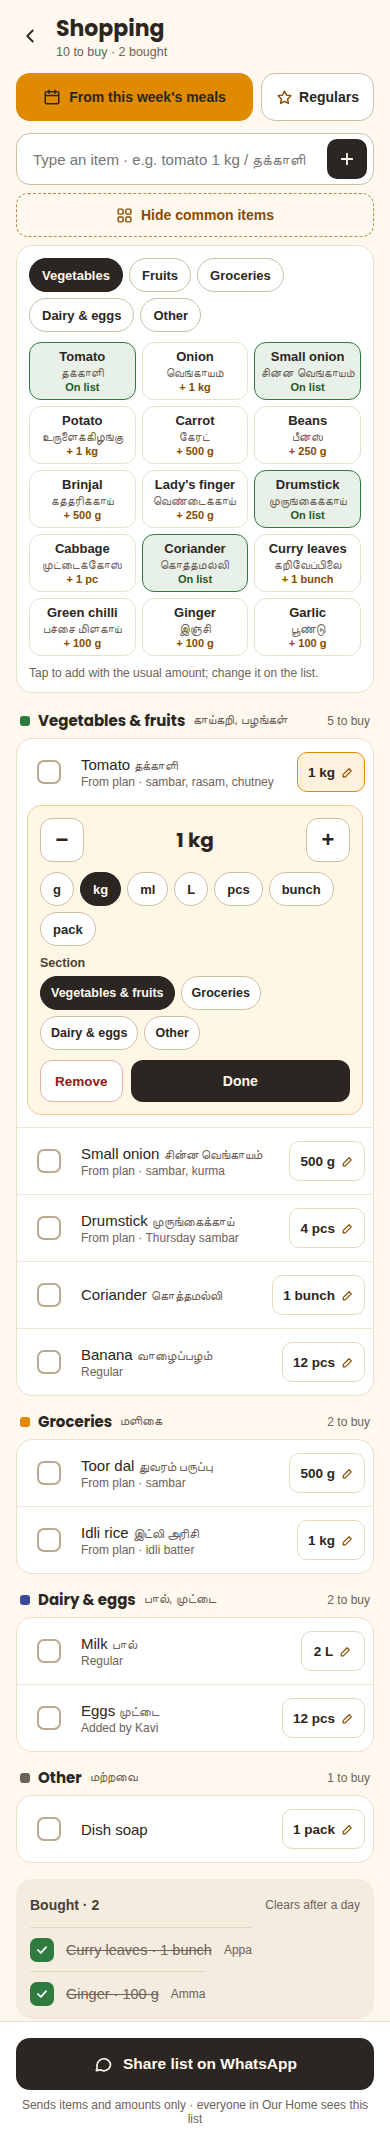
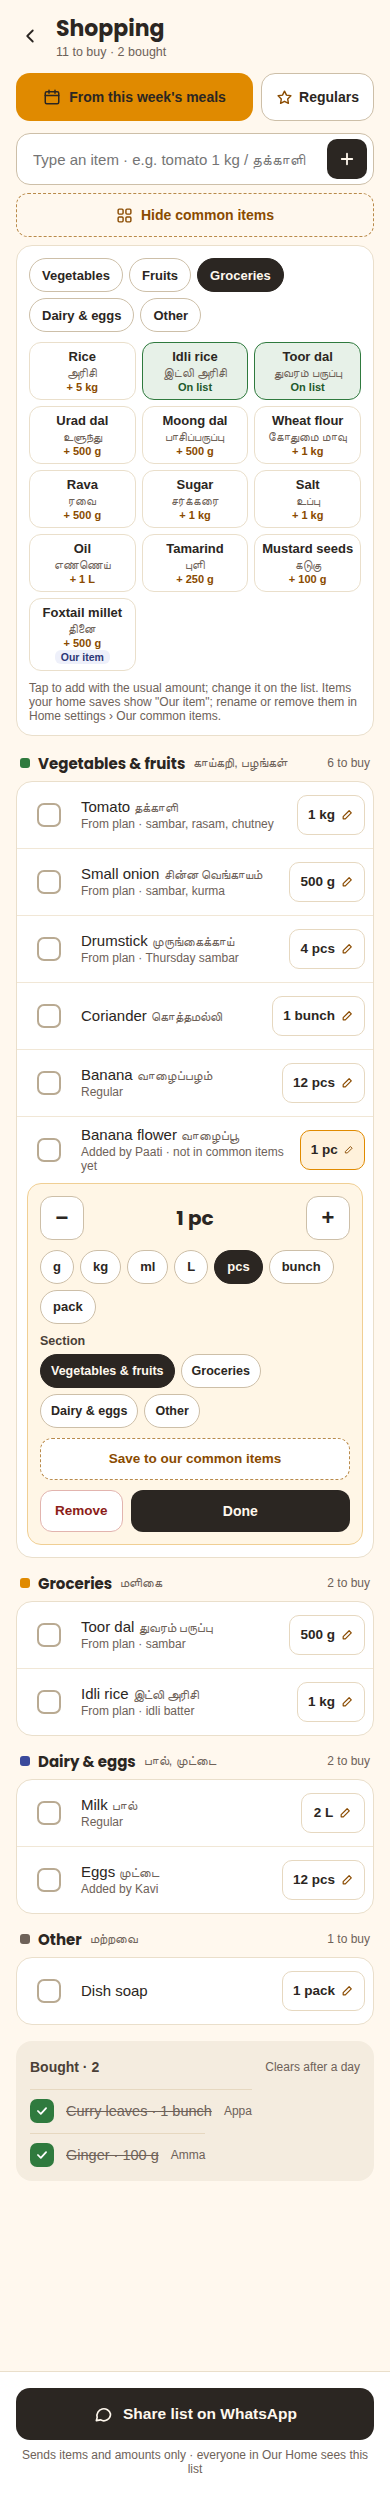
Shopping mockup: add a new item and save it to the home's common items
Claude-Session: https://claude.ai/code/session_019tXdhghyv9RUVi6FLQ9nxK

diff --git a/design/mockups/html/Shopping.dc.html b/design/mockups/html/Shopping.dc.html
@@ -15,7 +15,7 @@ a{color:#8A4B00}a:hover{color:#5E3300}
 button,input{font-family:inherit}
 </style>
 </helmet>
-<div style="width: 390px; height: 2150px; box-sizing: border-box; background: #FFF8EE; color: #2B2622; display: flex; flex-direction: column">
+<div style="width: 390px; height: 2500px; box-sizing: border-box; background: #FFF8EE; color: #2B2622; display: flex; flex-direction: column">
 
 <div style="display: flex; align-items: center; gap: 4px; padding: 12px 12px 6px 8px">
 <a href="Planner.dc.html" aria-label="Back to Week" style="width: 44px; height: 44px; display: flex; align-items: center; justify-content: center; color: #2B2622; border-radius: 12px">
@@ -51,7 +51,60 @@ button,input{font-family:inherit}
 <span style="font-size: 12.5px; color: #6E6259">{{sg.groupName}} · {{sg.qty}}</span>
 </button>
 </sc-for>
+<sc-if value="{{showNewOpt}}" hint-placeholder-val="{{ false }}">
+<button type="button" role="option" aria-selected="false" onClick="{{openNew}}" style="all: unset; box-sizing: border-box; cursor: pointer; display: flex; align-items: center; gap: 10px; min-height: 48px; padding: 6px 14px; border-top: {{newOptDivider}}; color: #8A4B00">
+<svg width="16" height="16" viewBox="0 0 24 24" fill="none" stroke="currentColor" stroke-width="2.4" stroke-linecap="round" aria-hidden="true"><path d="M12 5v14M5 12h14"></path></svg>
+<span style="font-size: 14.5px; font-weight: 600">Add "{{newName}}" as a new item</span>
+</button>
+</sc-if>
 </div>
+</sc-if>
+<sc-if value="{{showNewForm}}" hint-placeholder-val="{{ false }}">
+<section aria-label="New item" style="background: #FFFFFF; border: 2px solid #E08A00; border-radius: 16px; padding: 14px; display: flex; flex-direction: column; gap: 12px">
+<span style="font-family: Poppins, sans-serif; font-weight: 600; font-size: 15px">New item</span>
+<div style="display: grid; grid-template-columns: repeat(2, minmax(0, 1fr)); gap: 8px">
+<div style="display: flex; flex-direction: column; gap: 4px">
+<label for="nfname" style="font-size: 12.5px; font-weight: 600; color: #4A3F37">Name</label>
+<input id="nfname" type="text" value="{{nf.name}}" onChange="{{nfName}}" style="height: 44px; padding: 0 10px; border-radius: 10px; border: 1px solid #CDBFA8; font-size: 14.5px; color: #2B2622; min-width: 0">
+</div>
+<div style="display: flex; flex-direction: column; gap: 4px">
+<label for="nfta" style="font-size: 12.5px; font-weight: 600; color: #4A3F37">Tamil name (optional)</label>
+<input id="nfta" type="text" value="{{nf.ta}}" onChange="{{nfTa}}" placeholder="தமிழ் பெயர்" style="height: 44px; padding: 0 10px; border-radius: 10px; border: 1px solid #CDBFA8; font-size: 14.5px; color: #2B2622; min-width: 0">
+</div>
+</div>
+<div style="display: flex; flex-direction: column; gap: 6px">
+<span style="font-size: 12.5px; font-weight: 600; color: #4A3F37">Section</span>
+<div role="radiogroup" aria-label="Section" style="display: flex; flex-wrap: wrap; gap: 6px">
+<sc-for list="{{nfGroups}}" as="o" hint-placeholder-count="4">
+<button type="button" role="radio" aria-checked="{{o.checked}}" onClick="{{o.pick}}" style="height: 34px; padding: 0 10px; border-radius: 999px; border: {{o.border}}; background: {{o.bg}}; color: {{o.ink}}; font-size: 12.5px; font-weight: 600; cursor: pointer">{{o.label}}</button>
+</sc-for>
+</div>
+</div>
+<div style="display: flex; flex-direction: column; gap: 6px">
+<span style="font-size: 12.5px; font-weight: 600; color: #4A3F37">Usual amount</span>
+<div style="display: flex; align-items: center; gap: 8px">
+<button type="button" aria-label="Less" onClick="{{nfMinus}}" style="width: 40px; height: 40px; border-radius: 10px; border: 1.5px solid #CDBFA8; background: #FFFFFF; font-size: 20px; font-weight: 600; cursor: pointer">−</button>
+<span aria-live="polite" style="min-width: 70px; text-align: center; font-weight: 600; font-size: 16px">{{nfAmount}}</span>
+<button type="button" aria-label="More" onClick="{{nfPlus}}" style="width: 40px; height: 40px; border-radius: 10px; border: 1.5px solid #CDBFA8; background: #FFFFFF; font-size: 20px; font-weight: 600; cursor: pointer">+</button>
+</div>
+<div role="radiogroup" aria-label="Unit" style="display: flex; flex-wrap: wrap; gap: 6px">
+<sc-for list="{{nfUnits}}" as="u" hint-placeholder-count="6">
+<button type="button" role="radio" aria-checked="{{u.checked}}" onClick="{{u.pick}}" style="height: 32px; padding: 0 11px; border-radius: 999px; border: {{u.border}}; background: {{u.bg}}; color: {{u.ink}}; font-size: 12.5px; font-weight: 600; cursor: pointer">{{u.label}}</button>
+</sc-for>
+</div>
+</div>
+<button type="button" role="switch" aria-checked="{{nfSaveChecked}}" onClick="{{nfToggleSave}}" style="all: unset; box-sizing: border-box; cursor: pointer; display: flex; align-items: center; justify-content: space-between; gap: 10px; min-height: 52px; padding: 6px 12px; border-radius: 12px; background: #F4ECDF">
+<span style="display: flex; flex-direction: column; gap: 2px">
+<span style="font-size: 14px; font-weight: 600">Save to our common items</span>
+<span style="font-size: 12px; color: #4A3F37">Shows in Browse and suggestions next time, for everyone in Our Home</span>
+</span>
+<span style="width: 48px; height: 28px; border-radius: 999px; background: {{nfTrack}}; display: flex; align-items: center; padding: 3px; box-sizing: border-box; justify-content: {{nfKnob}}; flex-shrink: 0"><span style="width: 22px; height: 22px; border-radius: 50%; background: #FFFFFF"></span></span>
+</button>
+<div style="display: flex; gap: 8px">
+<button type="button" onClick="{{nfCancel}}" style="height: 44px; padding: 0 16px; border-radius: 12px; border: 1.5px solid #CDBFA8; background: #FFFFFF; color: #2B2622; font-size: 14px; font-weight: 600; cursor: pointer">Cancel</button>
+<button type="button" onClick="{{nfAdd}}" style="flex-grow: 1; height: 44px; border-radius: 12px; border: none; background: #2B2622; color: #FFF8EE; font-size: 14px; font-weight: 600; cursor: pointer">Add to list</button>
+</div>
+</section>
 </sc-if>
 <button type="button" aria-expanded="{{browseExpanded}}" onClick="{{toggleBrowse}}" style="height: 44px; border-radius: 12px; border: 1.5px dashed #B98A4A; background: transparent; color: #8A4B00; font-size: 14px; font-weight: 600; display: flex; align-items: center; justify-content: center; gap: 8px; cursor: pointer">
 <svg width="17" height="17" viewBox="0 0 24 24" fill="none" stroke="currentColor" stroke-width="2" stroke-linecap="round" stroke-linejoin="round" aria-hidden="true"><rect x="3" y="3" width="7" height="7" rx="1.5"></rect><rect x="14" y="3" width="7" height="7" rx="1.5"></rect><rect x="3" y="14" width="7" height="7" rx="1.5"></rect><rect x="14" y="14" width="7" height="7" rx="1.5"></rect></svg>{{browseText}}</button>
@@ -68,10 +121,13 @@ button,input{font-family:inherit}
 <span style="font-size: 13px; font-weight: 600; text-align: center; line-height: 1.2">{{b.name}}</span>
 <span style="font-family: 'Noto Sans Tamil', sans-serif; font-size: 11.5px; color: #6E6259; text-align: center; line-height: 1.25">{{b.ta}}</span>
 <span style="font-size: 11px; font-weight: 600; color: {{b.tagInk}}">{{b.tag}}</span>
+<sc-if value="{{b.ours}}" hint-placeholder-val="{{ false }}">
+<span style="font-size: 10.5px; font-weight: 600; padding: 1px 6px; border-radius: 6px; background: #EEF0FA; color: #2C3777">Our item</span>
+</sc-if>
 </button>
 </sc-for>
 </div>
-<span style="font-size: 12px; color: #6E6259">Tap to add with the usual amount; change it on the list.</span>
+<span style="font-size: 12px; color: #6E6259">Tap to add with the usual amount; change it on the list. Items your home saves show "Our item"; rename or remove them in Home settings › Our common items.</span>
 </div>
 </sc-if>
 </div>
@@ -120,6 +176,12 @@ button,input{font-family:inherit}
 </sc-for>
 </div>
 </div>
+<sc-if value="{{it.canSave}}" hint-placeholder-val="{{ false }}">
+<button type="button" onClick="{{it.saveCommon}}" style="height: 42px; border-radius: 12px; border: 1.5px dashed #B98A4A; background: #FFFFFF; color: #8A4B00; font-size: 13.5px; font-weight: 600; cursor: pointer">Save to our common items</button>
+</sc-if>
+<sc-if value="{{it.saved}}" hint-placeholder-val="{{ false }}">
+<span style="font-size: 12.5px; font-weight: 600; color: #1F5A2C">Saved to our common items</span>
+</sc-if>
 <div style="display: flex; gap: 8px">
 <button type="button" onClick="{{it.remove}}" style="height: 42px; padding: 0 14px; border-radius: 12px; border: 1.5px solid #E2B4AE; background: #FFFFFF; color: #8C1D18; font-size: 13.5px; font-weight: 600; cursor: pointer">Remove</button>
 <button type="button" onClick="{{it.done}}" style="flex-grow: 1; height: 42px; border-radius: 12px; border: none; background: #2B2622; color: #FFF8EE; font-size: 14px; font-weight: 600; cursor: pointer">Done</button>
@@ -155,12 +217,13 @@ button,input{font-family:inherit}
 
 </div>
 </x-dc>
-<script type="text/x-dc" data-dc-script data-props='{"$preview":{"width":390,"height":2150}}'>
+<script type="text/x-dc" data-dc-script data-props='{"$preview":{"width":390,"height":2500}}'>
 class Component extends DCLogic {
   constructor(props) {
     super(props);
     this.state = {
-      draft: '', regularsAdded: false, browse: true, tab: 'v', editing: 'tom',
+      draft: '', regularsAdded: false, browse: true, tab: 'g', editing: 'bfl', nf: null, savedIds: {},
+      custom: [ { g:'gro', tab:'g', name:'Foxtail millet', ta:'தினை', amt:500, unit:'g', ours:true } ],
       items: [
         { id:'tom', g:'veg', name:'Tomato', ta:'தக்காளி', amt:1, unit:'kg', note:'From plan · sambar, rasam, chutney' },
         { id:'son', g:'veg', name:'Small onion', ta:'சின்ன வெங்காயம்', amt:500, unit:'g', note:'From plan · sambar, kurma' },
@@ -171,6 +234,7 @@ class Component extends DCLogic {
         { id:'irc', g:'gro', name:'Idli rice', ta:'இட்லி அரிசி', amt:1, unit:'kg', note:'From plan · idli batter' },
         { id:'mlk', g:'dai', name:'Milk', ta:'பால்', amt:2, unit:'L', note:'Regular' },
         { id:'egg', g:'dai', name:'Eggs', ta:'முட்டை', amt:12, unit:'pcs', note:'Added by Kavi' },
+        { id:'bfl', g:'veg', name:'Banana flower', ta:'வாழைப்பூ', amt:1, unit:'pcs', note:'Added by Paati · not in common items yet' },
         { id:'soap', g:'oth', name:'Dish soap', ta:'', amt:1, unit:'pack', note:'' }
       ],
       bought: [ { id:'cur', label:'Curry leaves · 1 bunch', by:'Appa' }, { id:'gng', label:'Ginger · 100 g', by:'Amma' } ]
@@ -194,7 +258,7 @@ class Component extends DCLogic {
       ['oth','o','Bread','ரொட்டி',1,'pack'],['oth','o','Tea powder','டீ தூள்',250,'g'],['oth','o','Coffee powder','காபி தூள்',200,'g'],
       ['oth','o','Biscuits','பிஸ்கட்',2,'pack'],['oth','o','Dish soap','பாத்திரம் கழுவும் சோப்',1,'pack']
     ];
-    return C.map(([g, tab, name, ta, amt, unit]) => ({ g, tab, name, ta, amt, unit }));
+    return C.map(([g, tab, name, ta, amt, unit]) => ({ g, tab, name, ta, amt, unit, ours: false })).concat(this.state.custom);
   }
   renderVals() {
     const s = this.state;
@@ -218,10 +282,19 @@ class Component extends DCLogic {
       const amt = m ? parseFloat(m[2]) : (hit ? hit.amt : 1);
       const unit = m && m[3] ? (m[3] === 'l' ? 'L' : (m[3].startsWith('pc') ? 'pcs' : m[3])) : (hit ? hit.unit : 'pcs');
       const id = 'n' + Date.now();
-      this.setState({ draft: '', items: [...this.state.items, { id, g: hit ? hit.g : 'oth', name: hit ? hit.name : name, ta: hit ? hit.ta : '', amt, unit, note: 'Added by you' }] });
+      if (!hit) { this.setState({ nf: { name, ta: '', g: 'veg', amt: m ? amt : 1, unit: m && m[3] ? unit : 'pcs', save: true } }); return; }
+      this.setState({ draft: '', items: [...this.state.items, { id, g: hit.g, name: hit.name, ta: hit.ta, amt, unit, note: 'Added by you' }] });
     };
     const q = s.draft.trim().toLowerCase().replace(/\s+\d.*$/, '');
     const suggestList = q.length < 2 ? [] : cat.filter(c => c.name.toLowerCase().includes(q) || c.ta.includes(s.draft.trim())).slice(0, 4);
+    const typedName = s.draft.trim().replace(/\s+\d.*$/, '');
+    const exact = cat.find(c => c.name.toLowerCase() === typedName.toLowerCase() || c.ta === typedName);
+    const showNewOpt = typedName.length >= 2 && !exact && !s.nf;
+    const TABOF = { veg:'v', gro:'g', dai:'d', oth:'o' };
+    const saveCustom = (o) => this.setState({ custom: [...this.state.custom, { g: o.g, tab: TABOF[o.g], name: o.name, ta: o.ta, amt: o.amt, unit: o.unit, ours: true }] });
+    const nf = s.nf;
+    const setNf = (patch) => this.setState({ nf: { ...this.state.nf, ...patch } });
+    const nfStep = nf ? (STEP[nf.unit] || 1) : 1;
     const suggest = suggestList.map((c, i) => ({ ...c, qty: fmt(c.amt, c.unit), groupName: GROUPS[c.g][0], color: GROUPS[c.g][2],
       divider: i === 0 ? 'none' : '1px solid #F1E7D6', pick: () => addFromCat(c) }));
 
@@ -249,6 +322,9 @@ class Component extends DCLogic {
             return { label: GROUPS[o][0], checked: on ? 'true' : 'false', bg: on ? '#2B2622' : '#FFFFFF', ink: on ? '#FFF8EE' : '#2B2622',
               border: on ? '1.5px solid #2B2622' : '1px solid #CDBFA8', pick: () => setItem(x.id, { g: o }) };
           }),
+          canSave: ed && !cat.find(c => c.name.toLowerCase() === x.name.toLowerCase()) && !s.savedIds[x.id],
+          saved: ed && !!s.savedIds[x.id],
+          saveCommon: () => { saveCustom(x); this.setState({ savedIds: { ...this.state.savedIds, [x.id]: true } }); },
           remove: () => this.setState({ editing: null, items: this.state.items.filter(y => y.id !== x.id) }),
           done: () => this.setState({ editing: null })
         };
@@ -273,7 +349,24 @@ class Component extends DCLogic {
     return {
       summary: s.items.length + ' to buy · ' + s.bought.length + ' bought',
       groups, bought, boughtCount: s.bought.length, draft: s.draft,
-      suggest, hasSuggest: suggest.length > 0,
+      suggest, hasSuggest: suggest.length > 0 || showNewOpt,
+      showNewOpt, newName: typedName, newOptDivider: suggest.length ? '1px solid #F1E7D6' : 'none',
+      openNew: () => this.setState({ nf: { name: typedName, ta: '', g: 'veg', amt: 1, unit: 'pcs', save: true } }),
+      showNewForm: !!nf, nf: nf || { name: '', ta: '' },
+      nfName: (e) => setNf({ name: e.target.value }), nfTa: (e) => setNf({ ta: e.target.value }),
+      nfGroups: Object.keys(GROUPS).map(o => { const on = nf && nf.g === o; return { label: GROUPS[o][0], checked: on ? 'true' : 'false',
+        bg: on ? '#2B2622' : '#FFFFFF', ink: on ? '#FFF8EE' : '#2B2622', border: on ? '1.5px solid #2B2622' : '1px solid #CDBFA8', pick: () => setNf({ g: o }) }; }),
+      nfAmount: nf ? fmt(nf.amt, nf.unit) : '',
+      nfMinus: () => setNf({ amt: Math.max(nfStep, Math.round((this.state.nf.amt - nfStep) * 10) / 10) }),
+      nfPlus: () => setNf({ amt: Math.round((this.state.nf.amt + nfStep) * 10) / 10 }),
+      nfUnits: ['g','kg','ml','L','pcs','bunch','pack'].map(u => { const on = nf && nf.unit === u; return { label: u, checked: on ? 'true' : 'false',
+        bg: on ? '#2B2622' : '#FFFFFF', ink: on ? '#FFF8EE' : '#2B2622', border: on ? '1.5px solid #2B2622' : '1px solid #CDBFA8',
+        pick: () => setNf({ unit: u, amt: STEP[u] >= 1 && this.state.nf.amt < 1 ? STEP[u] : (u === 'g' || u === 'ml') && this.state.nf.amt < 50 ? 250 : this.state.nf.amt }) }; }),
+      nfSaveChecked: nf && nf.save ? 'true' : 'false', nfToggleSave: () => setNf({ save: !this.state.nf.save }),
+      nfTrack: nf && nf.save ? '#2F7A3E' : '#B9AA92', nfKnob: nf && nf.save ? 'flex-end' : 'flex-start',
+      nfCancel: () => this.setState({ nf: null }),
+      nfAdd: () => { const o = this.state.nf; if (!o.name.trim()) return; if (o.save) saveCustom(o);
+        this.setState({ nf: null, draft: '', items: [...this.state.items, { id: 'n' + Date.now(), g: o.g, name: o.name.trim(), ta: o.ta, amt: o.amt, unit: o.unit, note: o.save ? 'Added by you · saved for next time' : 'Added by you' }] }); },
       showBrowse: s.browse, browseExpanded: s.browse ? 'true' : 'false',
       browseText: s.browse ? 'Hide common items' : 'Browse common items', toggleBrowse: () => this.setState({ browse: !this.state.browse }),
       tabs, browseItems,
